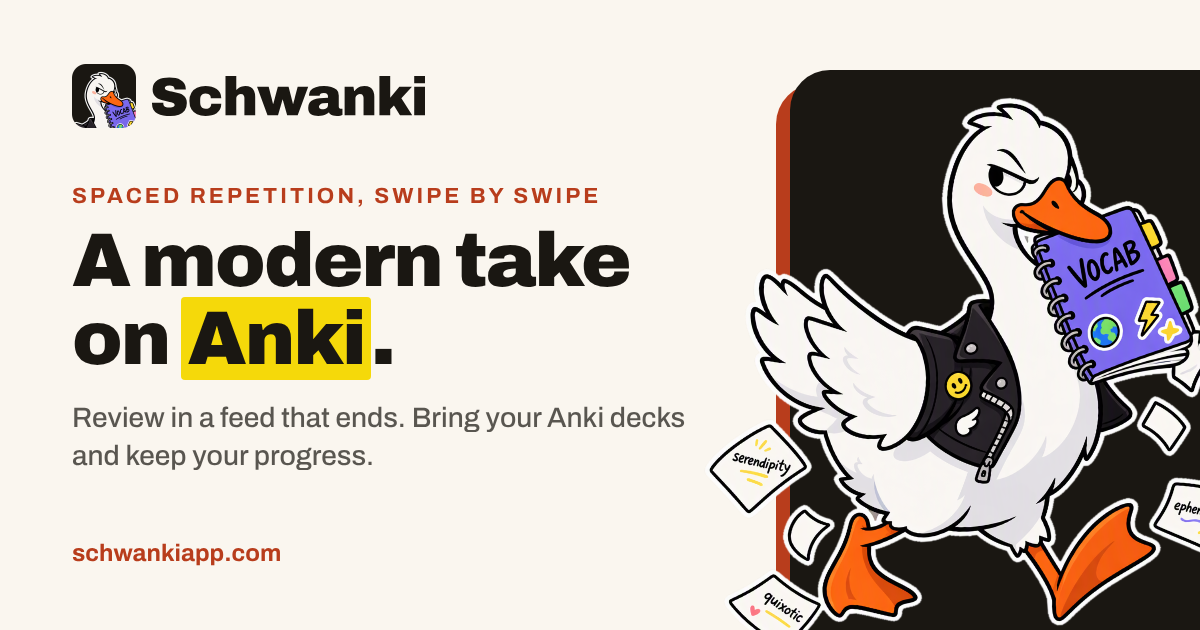
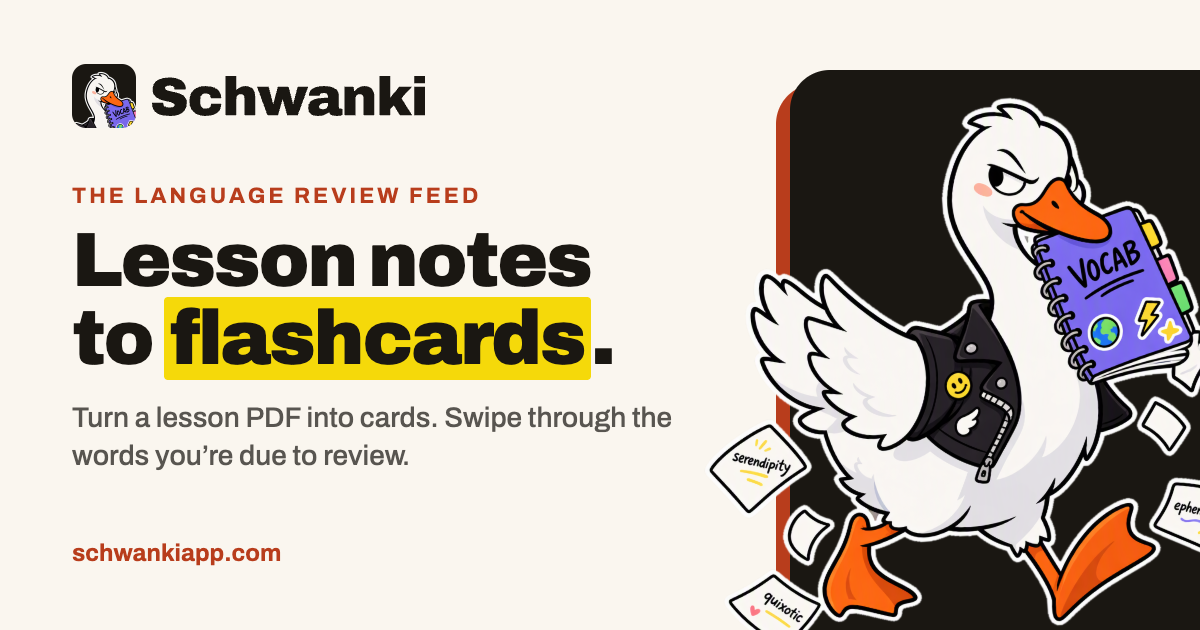
Align the social card and pause offscreen demo clips

Changed region(s): [[0.0617, 0.3619, 0.5242, 0.6032], [0.0617, 0.6333, 0.5858, 0.754], [0.0617, 0.3016, 0.4933, 0.3317]]

diff --git a/apps/web/src/components/LandingFeed.tsx b/apps/web/src/components/LandingFeed.tsx
@@ -50,7 +50,9 @@ function FeedSlide({ card, active, revealed, playing }: { card: FeedCard; active
 /** Page scroll drives an illustrated review; it never writes actual ratings. */
 export default function LandingFeed({ cards = FEED_CARDS }: { cards?: FeedCard[] }) {
   const section = useRef<HTMLElement>(null);
+  const stage = useRef<HTMLDivElement>(null);
   const [phase, setPhase] = useState(0);
+  const [visible, setVisible] = useState(() => typeof IntersectionObserver === "undefined");
   const [reduced, setReduced] = useState(() => typeof window !== "undefined" && (window.matchMedia?.("(prefers-reduced-motion: reduce)").matches ?? false));
   const [shortWindow, setShortWindow] = useState(() => typeof window !== "undefined" && (window.matchMedia?.("(max-height: 680px)").matches ?? false));
   const [paused, setPaused] = useState(false);
@@ -63,6 +65,13 @@ export default function LandingFeed({ cards = FEED_CARDS }: { cards?: FeedCard[]
   const active = Math.min(Math.max(phase - 1, 0), cards.length - 1);
   const current = cards[active];
   const captionIndex = done ? CHAPTERS.length - 1 : phase < 2 ? phase : 2 + (phase - 2) % 3;
+
+  useEffect(() => {
+    if (!stage.current || typeof IntersectionObserver === "undefined") return;
+    const observer = new IntersectionObserver(([entry]) => setVisible(entry?.isIntersecting ?? false));
+    observer.observe(stage.current);
+    return () => observer.disconnect();
+  }, []);
 
   useEffect(() => {
     const query = window.matchMedia?.("(prefers-reduced-motion: reduce)");
@@ -118,7 +127,7 @@ export default function LandingFeed({ cards = FEED_CARDS }: { cards?: FeedCard[]
   if (!current) return null;
   return (
     <section id="review-demo" ref={section} className="landing-scroll-hero" data-reduced={reduced} style={{ "--hero-steps": lastPhase + 1 } as CSSProperties} aria-labelledby="hero-heading">
-      <div className="landing-hero-stage" data-engaged={phase > 0}>
+      <div ref={stage} className="landing-hero-stage" data-engaged={phase > 0}>
         <div className="landing-hero-copy">
           <h2 id="hero-heading" className="landing-title">Doomscroll<br />{" "}your <mark className="landing-mark">vocab</mark>.</h2>
           <p className="landing-hero-description">Start with the word from the lesson above. Reveal it, rate what you remember, and keep going until you’re caught up.</p>
@@ -150,7 +159,7 @@ export default function LandingFeed({ cards = FEED_CARDS }: { cards?: FeedCard[]
             </div>
             <div className="hero-modern" aria-hidden={!modern || done}>
               <div className="hero-feed-track" style={{ transform: `translateY(-${active * 100}%)` }}>
-                {cards.map((card, i) => <FeedSlide key={card.id} card={card} active={modern && !done && i === active} revealed={phase >= 1} playing={modern && !done && !reduced && !paused && i === active} />)}
+                {cards.map((card, i) => <FeedSlide key={card.id} card={card} active={modern && !done && i === active} revealed={phase >= 1} playing={visible && modern && !done && !reduced && !paused && i === active} />)}
               </div>
               <div className="hero-feed-ratings" aria-label="Example rating choices">
                 {["Again", "Hard", "Good", "Easy"].map((rating) => <span key={rating} data-selected={phase >= 2 && rating === "Good"}>{rating}</span>)}

diff --git a/apps/web/src/lib/seo.ts b/apps/web/src/lib/seo.ts
@@ -5,6 +5,7 @@ import { ankiAlternativeStructuredData, ankiMobileComparisonStructuredData, expo
 import { COMPARISONS, COMPARISON_DATE, type Comparison } from "./comparisons.ts";
 
 export const SITE_URL = "https://schwankiapp.com";
+const HOME_IMAGE_ALT = "Schwanki: lesson notes to flashcards. The Chaos Goose carries a vocabulary notebook.";
 
 export interface PageMeta {
   path: string;
@@ -24,7 +25,7 @@ function comparisonMeta(comparison: Comparison): PageMeta {
     path, title, description,
     ogType: "article",
     image: "/og/home.jpg",
-    imageAlt: "Schwanki’s Chaos Goose runs off with a vocabulary notebook.",
+    imageAlt: HOME_IMAGE_ALT,
     structuredData: () => ({
       "@context": "https://schema.org",
       "@type": "Article",
@@ -52,7 +53,7 @@ export const PAGES = {
     description: "Turn your tutor’s Canva PDF, slides, or notes into flashcards and swipe through your due vocabulary. Bring your Anki decks and review history too.",
     ogType: "website",
     image: "/og/home.jpg",
-    imageAlt: "Schwanki’s Chaos Goose runs off with a vocabulary notebook.",
+    imageAlt: HOME_IMAGE_ALT,
     structuredData: homeStructuredData,
   },
   ankiAlternative: {
@@ -97,7 +98,7 @@ export const PAGES = {
     description: "What Schwanki collects, why, which services process it, and how to delete your account and data.",
     ogType: "website",
     image: "/og/home.jpg",
-    imageAlt: "Schwanki: a modern take on Anki.",
+    imageAlt: HOME_IMAGE_ALT,
     structuredData: () => legalPageData("Privacy Policy", "/privacy"),
   },
   terms: {
@@ -106,7 +107,7 @@ export const PAGES = {
     description: "The terms for using Schwanki, including your content, AI-generated memory aids, credits and fair use.",
     ogType: "website",
     image: "/og/home.jpg",
-    imageAlt: "Schwanki: a modern take on Anki.",
+    imageAlt: HOME_IMAGE_ALT,
     structuredData: () => legalPageData("Terms of Service", "/terms"),
   },
 } satisfies Record<string, PageMeta>;

diff --git a/apps/web/src/components/LandingFeed.test.tsx b/apps/web/src/components/LandingFeed.test.tsx
@@ -57,6 +57,24 @@ it("pauses scenes and falls back to a poster when media fails", () => {
   expect(document.querySelector(".hero-feed-slide img")?.getAttribute("src")).toBe("/demo/goose-steals-homework.jpg");
 });
 
+it("plays the demo scene only while the review demo is in view", () => {
+  let reportVisibility: IntersectionObserverCallback | undefined;
+  const observer = { observe: vi.fn(), disconnect: vi.fn() } as unknown as IntersectionObserver;
+  vi.stubGlobal("IntersectionObserver", function (callback: IntersectionObserverCallback) {
+    reportVisibility = callback;
+    return observer;
+  });
+  const view = render(<LandingFeed />);
+  expect(HTMLMediaElement.prototype.play).not.toHaveBeenCalled();
+  act(() => reportVisibility!([{ isIntersecting: true } as IntersectionObserverEntry], observer));
+  expect(HTMLMediaElement.prototype.play).toHaveBeenCalledTimes(1);
+  vi.mocked(HTMLMediaElement.prototype.pause).mockClear();
+  act(() => reportVisibility!([{ isIntersecting: false } as IntersectionObserverEntry], observer));
+  expect(HTMLMediaElement.prototype.pause).toHaveBeenCalled();
+  view.unmount();
+  expect(observer.disconnect).toHaveBeenCalled();
+});
+
 it("leads with Schwanki and only shows traditional review when explicitly compared", () => {
   render(<LandingFeed />);
   const classic = document.querySelector(".hero-classic");

diff --git a/docs/brand/tools/render.js b/docs/brand/tools/render.js
@@ -27,7 +27,7 @@ img{width:160px;height:160px}svg{height:100px;width:683px}svg path{fill:${color}
 (async()=>{
  const b=await chromium.launch(); const p=await b.newPage({viewport:{width:1200,height:630}});
  const jobs={
-  'og-home':og({eyebrow:'Spaced repetition, swipe by swipe',head:'A modern take on <mark>Anki</mark>.',sub:'Review in a feed that ends. Bring your Anki decks and keep your progress.'}),
+  'og-home':og({eyebrow:'The language review feed',head:'Lesson notes<br>to <mark>flashcards</mark>.',sub:'Turn a lesson PDF into cards. Swipe through the words you’re due to review.'}),
   'og-anki-alternative':og({eyebrow:'Anki alternative',head:'Keep your decks.<br>Lose the <mark>grind</mark>.',sub:'Import .apkg with review history and FSRS scheduling, then swipe through reviews.'}),
   'og-pricing':og({eyebrow:'Pricing',head:'Free deck.<br>Cinema from <mark>3.3¢</mark>.',sub:'Decks, reviews and Anki imports cost nothing. Pay only for AI pictures and audio.'}),
   'og-export-anki-guide':og({eyebrow:'Guide',head:'Export Anki decks <mark>without</mark> losing progress.',sub:'The one checkbox that keeps your review history. Desktop, AnkiMobile and AnkiDroid.'}),
